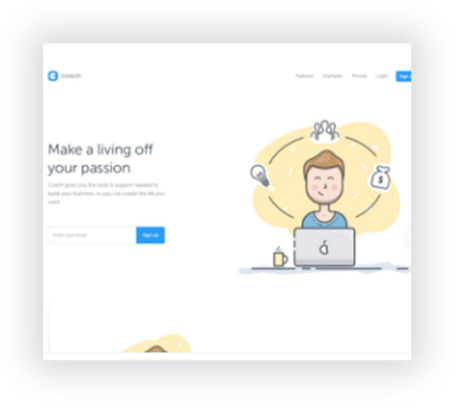
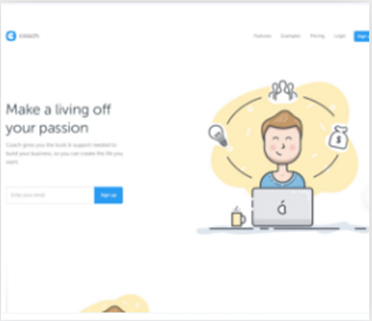
v3.0

diff --git a/style.css b/style.css
@@ -49,7 +49,7 @@ html {
 	text-transform: uppercase;
 }
 
-.list__item a:focus {
+.list__item a:hover {
 	text-transform: capitalize;
 	border-bottom: 1px solid #000;
 	margin-left: 1.27vw;
@@ -78,6 +78,10 @@ html {
 	justify-content: center;
 	align-items: center;
 	margin-right: 15px;
+}
+
+.button:nth-child(even) {
+	margin-right: 0;
 }
 
 .button_knowMore {
@@ -178,8 +182,8 @@ html {
 }
 
 .box-item img {
-	width: 150px;
-	height: 140px;
+	/* width: 154px; */
+	height: 118px;
 }
 
 /*schedule*/
@@ -310,8 +314,8 @@ html {
 
 .icon_box img {
 	padding-bottom: 30px;
-	width: 75px;
-	height: 105px;
+	/* width: 75px; */
+	height: 83px;
 }
 
 .icon_count {
@@ -406,11 +410,7 @@ input {
 	padding-top: 30px;
 	border-top: 1px solid #fff;
 	display: flex;
-	justify-content: space-between;
-}
-
-.socials {
-	display: flex;
+	justify-content: center;
 }
 
 .footer_inner p {
@@ -578,11 +578,6 @@ input {
 		height: 450px;
 	}
 
-	.schedule img {
-		max-width: 80%;
-		height: 106px;
-	}
-
 	.top_btn {
 		left: 120%;
 	}
@@ -590,6 +585,28 @@ input {
 	.services_list_column_2 {
 		grid-template-columns: 1fr 1fr;
 	}
+}
+
+@media screen and (max-width: 420px) {
+	.buttons_row {
+		max-width: 420px;
+		justify-content: center;
+	}
+
+	.box-item img {
+		width: 140px;
+		height: 105px;
+	}
+
+	#form {
+		width: 70%;
+	}
+
+	.top_btn {
+		top: 8%;
+		left: 95%;
+	}
+
 }
 
 @media screen and (max-width: 350px) {
@@ -609,11 +626,6 @@ input {
 		width: 300px;
 	}
 
-	.box-item img {
-		width: 140px;
-		height: 120px;
-	}
-
 	.section_aboutMe {
 		height: 620px;
 	}
@@ -621,9 +633,4 @@ input {
 	.footer p {
 		font-size: 12px;
 	}
-
-	.socials_icons img {
-		width: 20px;
-	}
-
 }

diff --git a/index.html b/index.html
@@ -179,11 +179,6 @@
     	</form>
     	<footer class="footer">
     		<div class="footer_inner">
-    			<div class="socials">
-    				<div class="socials_icons"><img src="https://img.icons8.com/windows/40/000000/facebook.png"></div>
-    				<div class="socials_icons"><img src="https://img.icons8.com/ios-filled/40/000000/twitter-squared.png"></div>
-    				<div class="socials_icons"><img src="https://img.icons8.com/material-rounded/40/000000/google-logo.png"></div>
-    			</div>
     			<p>2017.All Rights Reserved</p>
     		</div>
    		</footer>
